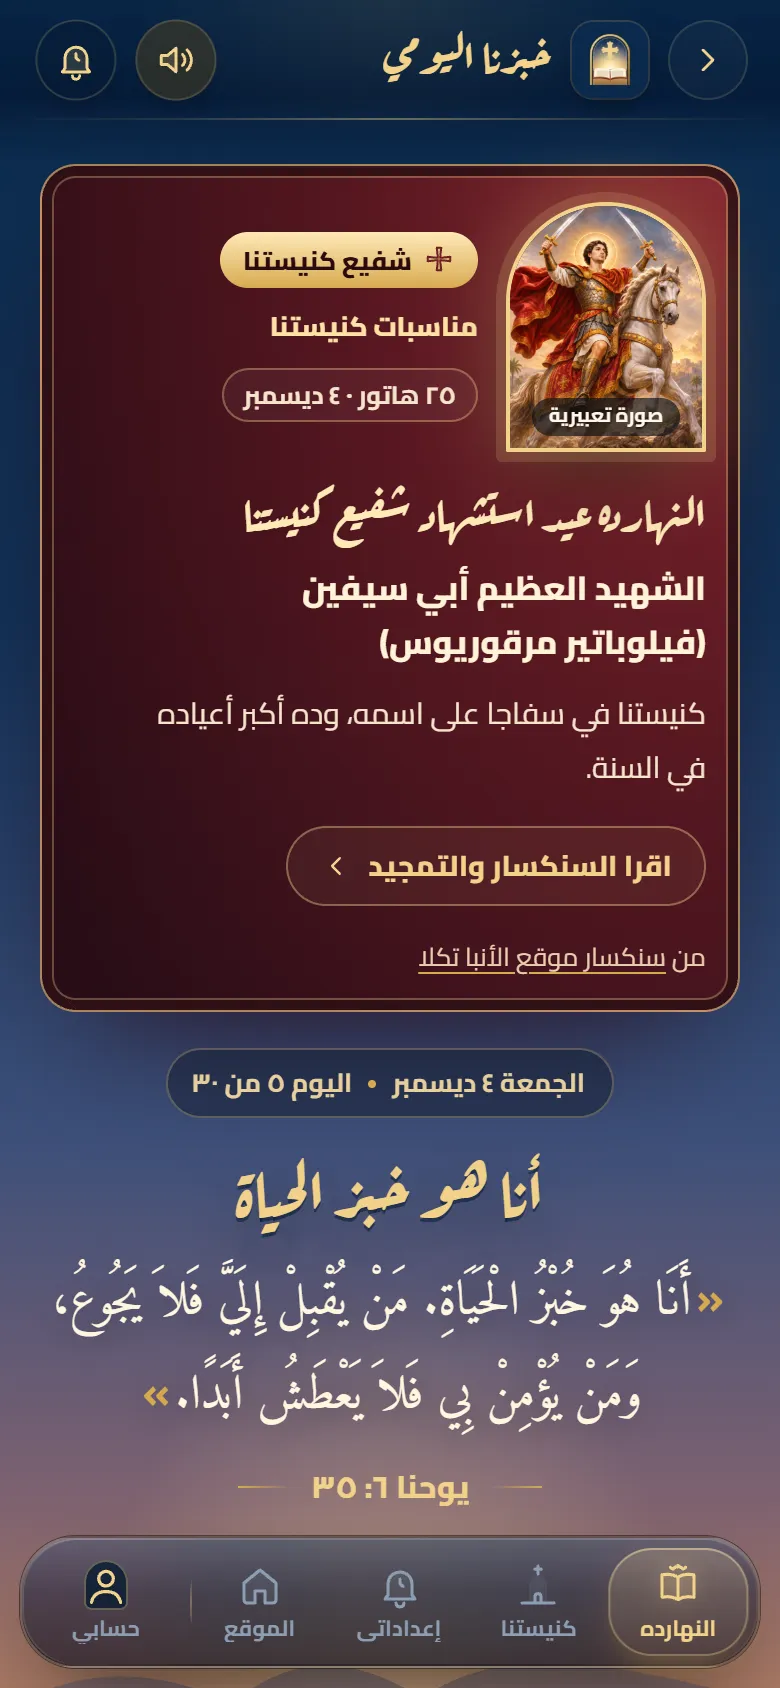
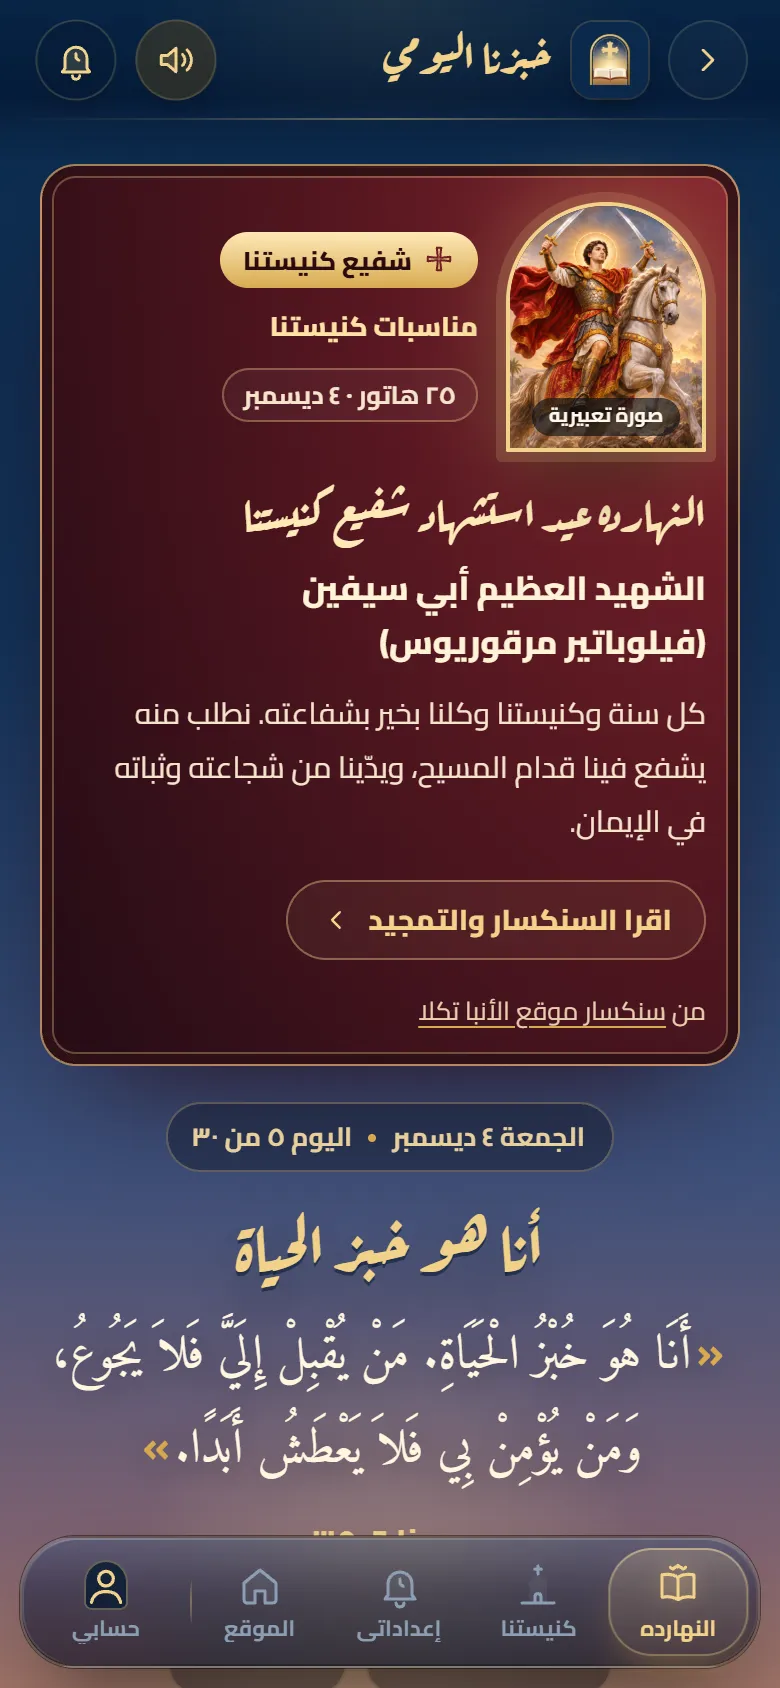
docs(daily-bread): P5 design approved - card texts as greetings and prayers

diff --git a/docs/daily-bread/saints/P5-PROGRESS.md b/docs/daily-bread/saints/P5-PROGRESS.md
@@ -90,3 +90,14 @@
   - المناسبة اللي بتيجي كل سنة بيبقى ليها مفتاح جديد كل سنة، فالتعليقات بتبقى على يومها.
 - **الرابط في التنفيذ:** `/daily-bread/?s=church&o=<id>&y=<السنة>` بيفتح الكارت ده بعينه. P5b بتعلّق عليه الريأكشنز والتعليقات.
 - **في P5:** مفيش أي تفاعل ولا تعليقات.
+
+## موافقة صاحب المشروع على المعاينة كلها (2026-11-25): «فنتا التصميم تم»
+
+- **التصميم كله اتوافق عليه:** الكارت، وأبي سيفين، والتمجيد كامل، وتبويب «كنيستنا»، وأشكال الآباء، وقداسة البابا، والبابوات المتنيحين، والبابا أثناسيوس، والأدمن.
+- **الكلام:** صاحب المشروع عايزه معايدة وصلاة على حسب كل شخص، مثال: «النهارده تذكار … أسقفنا الراحل مثلث الرحمات الأنبا ثاؤفيلس، نصلي إن الرب يعيننا زي ما أعانه». و«البابا أثناسيوس الرسولي حامي الإيمان».
+  - **اتعمل:** الـ١٦ كارت اتكتبوا من جديد بالروح دي، والوقائع بمصدرها بس. ده يبقى البداية، وكل كارت بيتعدّل من الأدمن.
+- **الأنبا مكاريوس:** علامته بقت «أسقف قنا والبحر الأحمر». القصد إنه مكانش أسقف البحر الأحمر بس، زي الأنبا ثاؤفيلس.
+  - **الحدود في المصدر:** «أسقف قنا قوص وقفط ونقادة ودشنا والبحر الأحمر» ([الأنبا تكلا](https://st-takla.org/Saints/bishops/meem/makarius-quena.html)). دي مدن محافظة قنا والبحر الأحمر.
+  - **المحافظة التالتة اللي صاحب المشروع فاكرها** مش مكتوبة في المصدر، فمتكتبتش.
+- **أعياد الميلاد للآباء:** مش في السجل. تتضاف كمناسبة لو صاحب المشروع جاب التاريخ بمصدره.
+- **الخطوة الجاية:** التنفيذ (الخطوة ب).
